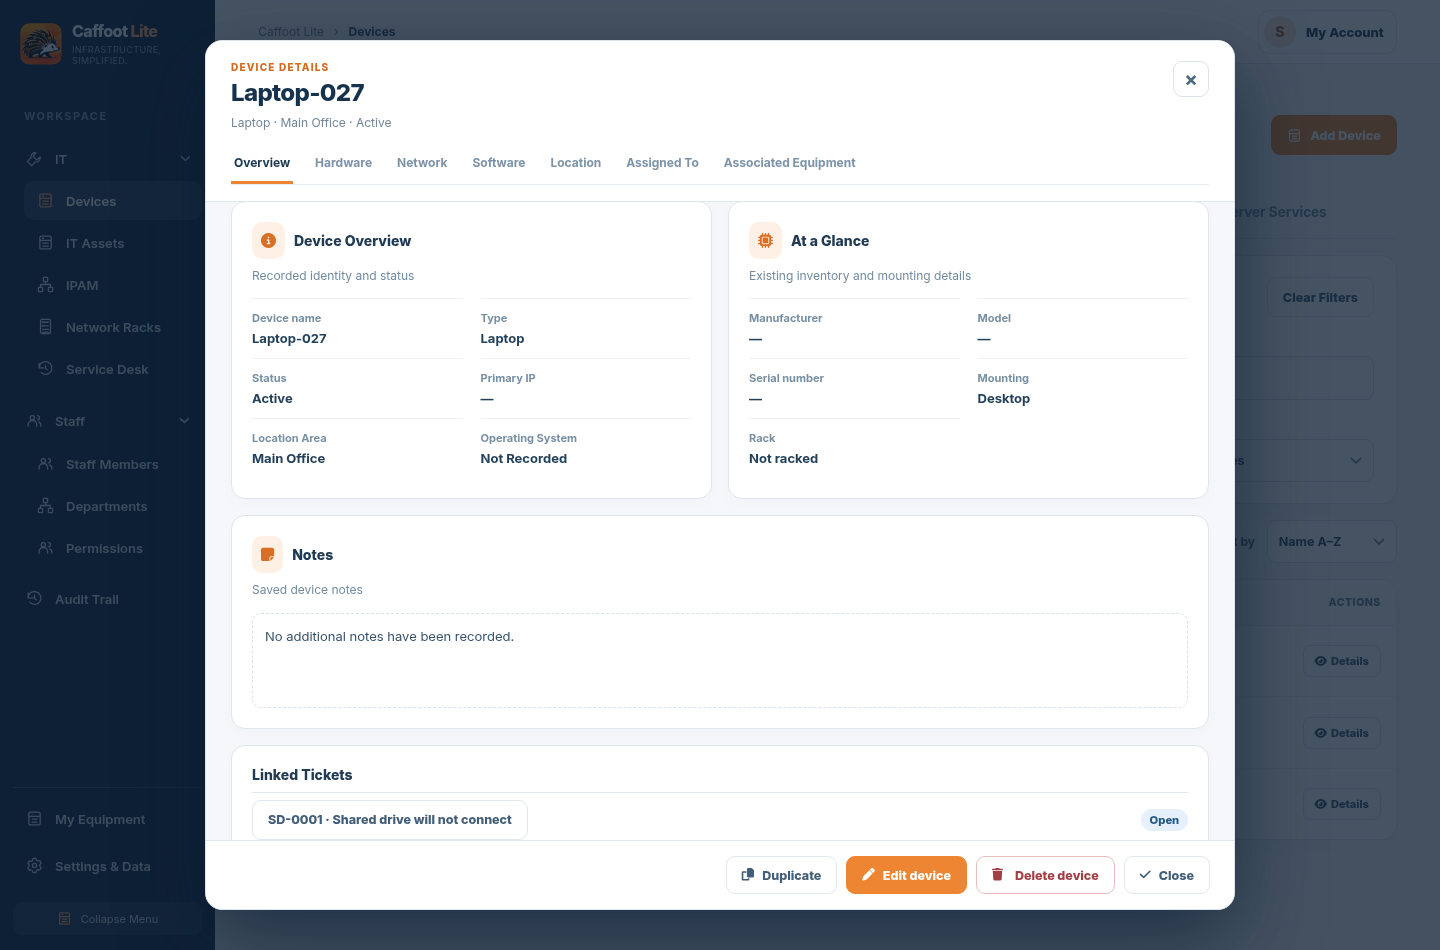
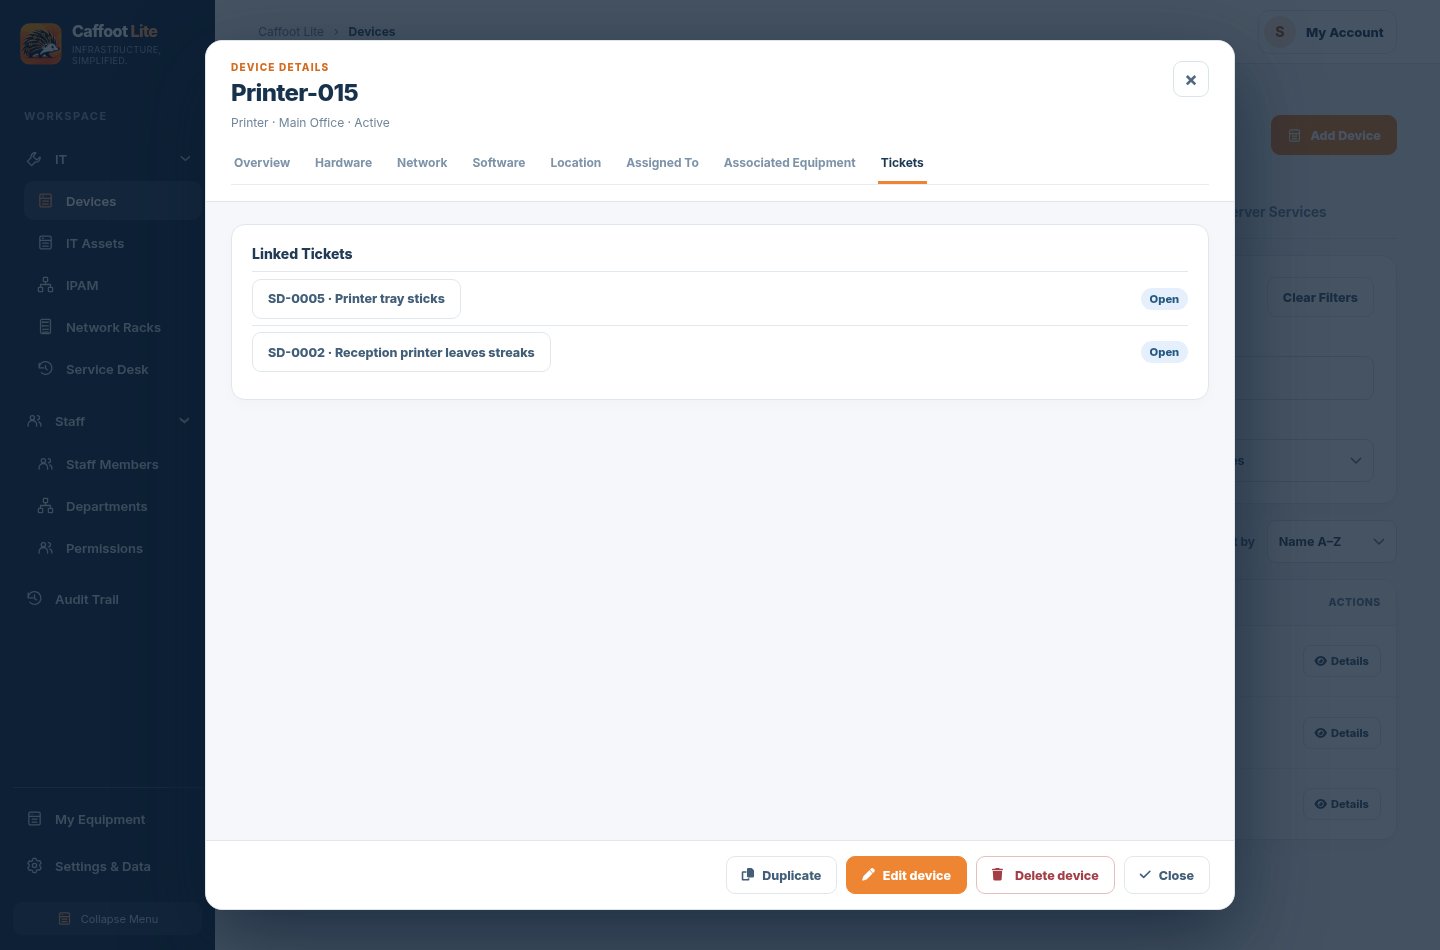
Update evidence for the Device Details Tickets tab

diff --git a/docs/development-handovers/evidence/it-service-desk/README.md b/docs/development-handovers/evidence/it-service-desk/README.md
@@ -1,6 +1,6 @@
 # IT Service Desk Application Evidence
 
-Captured on 23 November 2026 from the integrated, unreleased v2.2 application at `165b22927639057cbf9bb4e6cd58c405f9cd6223`. The server ran over local HTTPS with a disposable SQLite schema 25 database. Chromium 155.0.8059.79 rendered 1440 × 950 desktop and 390 × 844 mobile viewports. The account names, equipment and support conversations are fictional test data. Tickets, updates, status changes and attachments in these recordings went through the application’s live routes.
+The initial evidence was captured on 23 November 2026 from the integrated, unreleased v2.2 application at `165b22927639057cbf9bb4e6cd58c405f9cd6223`. The server ran over local HTTPS with a disposable SQLite schema 25 database. Chromium 155.0.8059.79 rendered 1440 × 950 desktop and 390 × 844 mobile viewports. The account names, equipment and support conversations are fictional test data. Tickets, updates, status changes and attachments in these recordings went through the application’s live routes.
 
 ## Screenshots
 
@@ -14,7 +14,7 @@ Captured on 23 November 2026 from the integrated, unreleased v2.2 application at
 | Ticket Updates | [Desktop light](updates-desktop-light.png) | [Mobile dark](updates-mobile-dark.png) |
 | Ticket History | [Desktop light](history-desktop-light.png) | |
 | Create Ticket | [Desktop light](create-desktop-light.png) | |
-| Linked Tickets in Device Details | [Desktop light](device-linked-tickets-desktop-light.png) | |
+| Device Details Tickets tab | [Desktop light](device-linked-tickets-desktop-light.png) | [Mobile dark](device-linked-tickets-mobile-dark.png) |
 | Linked Tickets in Stock Item Details | [Desktop light](asset-linked-tickets-desktop-light.png) | |
 
 ## Design Comparison
@@ -22,6 +22,12 @@ Captured on 23 November 2026 from the integrated, unreleased v2.2 application at
 Compared the integrated page and modal with the frozen Design 01 HTML at branch revision `2dbfbd8aebdcd7237845c7ea559f52548e5600de`, blob `d578afc2a907a4b0f7c438210aaeb2e39bf69b35`. The queue uses its three workload shortcuts, Open default, four filters and eight columns. Ticket Details retains Overview, Updates and History, the three Overview panels and the status-specific action footer. The application uses its shared navigation and Device Details presentation. The approved small classification controls sit inside Ticket Information. The period-based activity sections are assigned to Batch 5.4. [Frozen Design 01](https://github.com/Caffoot/Caffoot-Lite/blob/2dbfbd8aebdcd7237845c7ea559f52548e5600de/future-design/stage-5-previews/01-service-desk-it.html) · [Approved classification controls](https://github.com/Caffoot/Caffoot-Lite/issues/421#issuecomment-7095991698)
 
 The desktop capture of Device Details shows the shared modal header, tabs, panels and footer. On the 390-pixel viewport, the ticket table has its own horizontal scroll area and the ticket actions remain within the modal width. The final visual decision belongs to the product owner. [Device Details capture](device-linked-tickets-desktop-light.png) · [Mobile Ticket Details capture](overview-mobile-dark.png)
+
+## Device Details Tickets Review
+
+The replacement Device Details captures were taken on 23 November 2026 from the corrected HTTPS application at `100ed1393854b204c225991abea978ff56b7353b`, using Chromium and fictional SQLite data. The 1440 × 950 desktop light and 390 × 844 mobile dark views both show **Tickets** selected and the linked ticket available. [Owner review decision](https://github.com/Caffoot/Caffoot-Lite/issues/421#issuecomment-7096963836)
+
+The focused Chromium Roles and Device Details checks passed. They verified the Service Desk grant in the role form, the existing Overview and tabs, keyboard activation and return focus. A separate Chromium check confirmed the linked list returns to its second page, Device users without Service Desk access lack the tab, and Stock Item Details still displays its linked tickets. The 12 focused Python HTTP and interface tests passed.
 
 ## Local Verification
 

diff --git a/docs/development-guide/Service-Desk-Foundation.md b/docs/development-guide/Service-Desk-Foundation.md
@@ -20,7 +20,7 @@ The HTTPS handler puts reads in a consistent database snapshot and locks writes 
 
 ## IT Service Desk
 
-`interface/service-desk.js` connects the frozen Design 01 layout to the existing application shell, Device Inventory toolbar and shared Device Details modal. The queue defaults to Open. Its status, priority, assignment, technician and search filters and its sort order execute against the authorised server scope. Workload counts stay independent of the filters. Linked Tickets uses the same query with a canonical equipment filter. A Stock Item Details panel can include its individually tracked non-Device units. Registered Devices retain their Device identity. The corresponding optional feature and section permission are required at each read. [Design 01](https://github.com/Caffoot/Caffoot-Lite/blob/2dbfbd8aebdcd7237845c7ea559f52548e5600de/future-design/stage-5-previews/01-service-desk-it.html) · [Integrated evidence](../development-handovers/evidence/it-service-desk/README.md)
+`interface/service-desk.js` connects the frozen Design 01 layout to the existing application shell, Device Inventory toolbar and shared Device Details modal. The queue defaults to Open. Its status, priority, assignment, technician and search filters and its sort order execute against the authorised server scope. Workload counts stay independent of the filters. The Device Details **Tickets** tab and the Stock Item Details **Linked Tickets** section use the same query with a canonical equipment filter. Closing a ticket opened from Device Details restores the tab and its current page. A Stock Item Details panel can include its individually tracked non-Device units. Registered Devices retain their Device identity. The corresponding optional feature and section permission are required at each read. [Design 01](https://github.com/Caffoot/Caffoot-Lite/blob/2dbfbd8aebdcd7237845c7ea559f52548e5600de/future-design/stage-5-previews/01-service-desk-it.html) · [Integrated evidence](../development-handovers/evidence/it-service-desk/README.md)
 
 The scoped equipment endpoint provides canonical choices for authorised creation. Current stock issues are identified individually when a stock item has multiple recipients. The ticket writer rechecks the selected issue and records the applicable assignment before saving the ticket. The technician selector and assignment operation share the same eligibility check. The browser submits the ticket’s last-updated time with classification and lifecycle actions so two technicians cannot silently apply conflicting actions from the same old view. Independent updates can both be appended.
 

diff --git a/docs/development-handovers/milestone-01.md b/docs/development-handovers/milestone-01.md
@@ -6,6 +6,8 @@
 
 The first backend checkpoint is `86f409c`. The integrated implementation and focused tests are at `6f5e08cf52d4092abb7fe817541728d5a2956f6d`, followed by the responsive checks and visual checkpoint at `165b22927639057cbf9bb4e6cd58c405f9cd6223`. The focused local run passed 62 Python checks. The HTTPS Chromium journey and local Docker build and packaging smoke check passed. The [application screenshots and verification record](evidence/it-service-desk/README.md) include the frozen source and Device Details comparison. [Draft technician instructions](../how-tos/features-and-instructions/v2.2-draft/Service-Desk-Tickets.md) · [Draft administrator instructions](../how-tos/features-and-instructions/v2.2-draft/Service-Desk-Administration.md)
 
+The owner’s review correction moves Device-linked tickets to the **Tickets** tab and restores that tab and its current page on return. The Roles browser check now targets the Service Desk field inside its form. [Review decision](https://github.com/Caffoot/Caffoot-Lite/issues/421#issuecomment-7096963836) · [Updated screenshots and checks](evidence/it-service-desk/README.md#device-details-tickets-review)
+
 Hosted CI and independent owner visual review are the final review handoff. Native Raspberry Pi and Safari, full milestone upgrade and restore, and publication acceptance retain their separate gates.
 
 ## Clean Start Correction — 23 November 2026

diff --git a/docs/how-tos/features-and-instructions/v2.2-draft/Service-Desk-Tickets.md b/docs/how-tos/features-and-instructions/v2.2-draft/Service-Desk-Tickets.md
@@ -120,8 +120,8 @@ Files must be genuine PNG, JPEG, PDF, TXT, DOCX or XLSX. Each file may be up to 
 
 ## Find A Ticket From Equipment
 
-- In **IT → Devices → Device Inventory**, open the Device and look for **Linked Tickets** in **Overview**. Select the ticket to open its details. Closing the ticket returns you to the Device.
+- In **IT → Devices → Device Inventory**, open the Device and select the **Tickets** tab. Select a linked ticket to open its details. Closing the ticket returns you to the same page of the Device’s **Tickets** tab.
 - In **IT → IT Assets → Stock Inventory**, open the stock item and find **Linked Tickets** in **Stock Item Details**. Individually tracked stock can show tickets for its non-Device units. For equipment registered as a Device, use the Device’s own details.
-- If you have equipment access but lack Service Desk Read, the linked-ticket panel is hidden. If the panel is empty, check the canonical equipment record before asking an administrator to review access.
+- The Device **Tickets** tab and stock item **Linked Tickets** section require Service Desk Read as well as access to the equipment. If the list is empty, check the equipment record before asking an administrator to review access.
 
 The [administrator guide](Service-Desk-Administration.md) covers access, historical privacy and retention.
